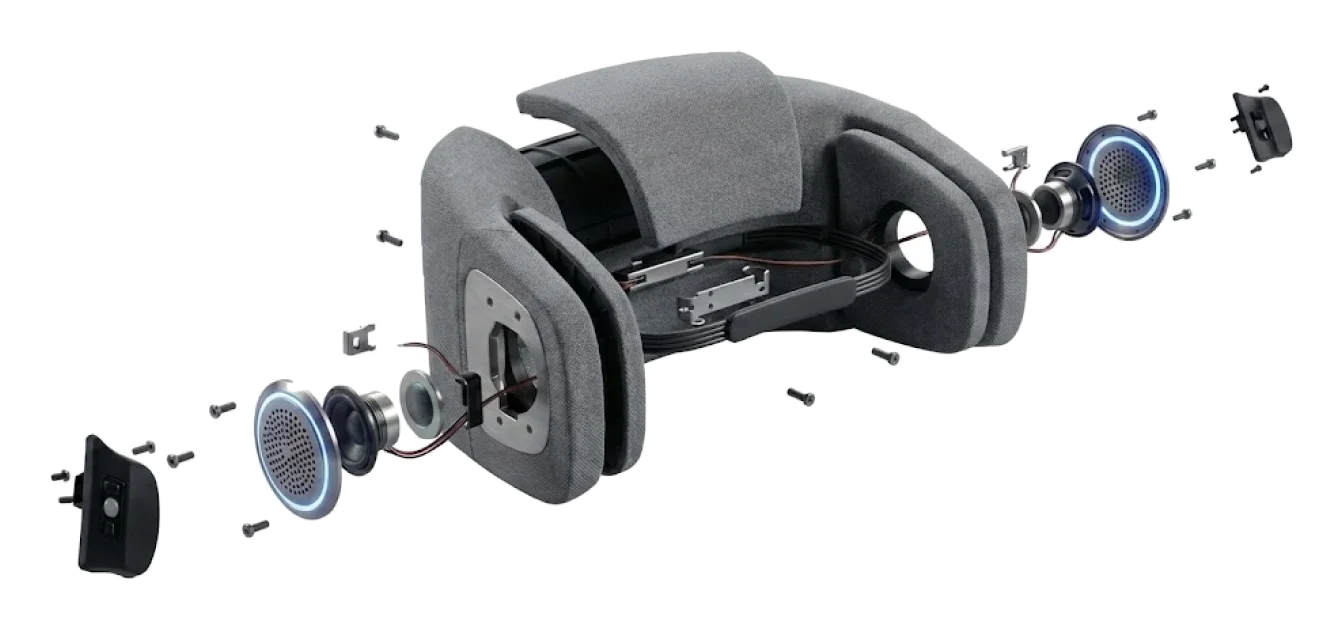
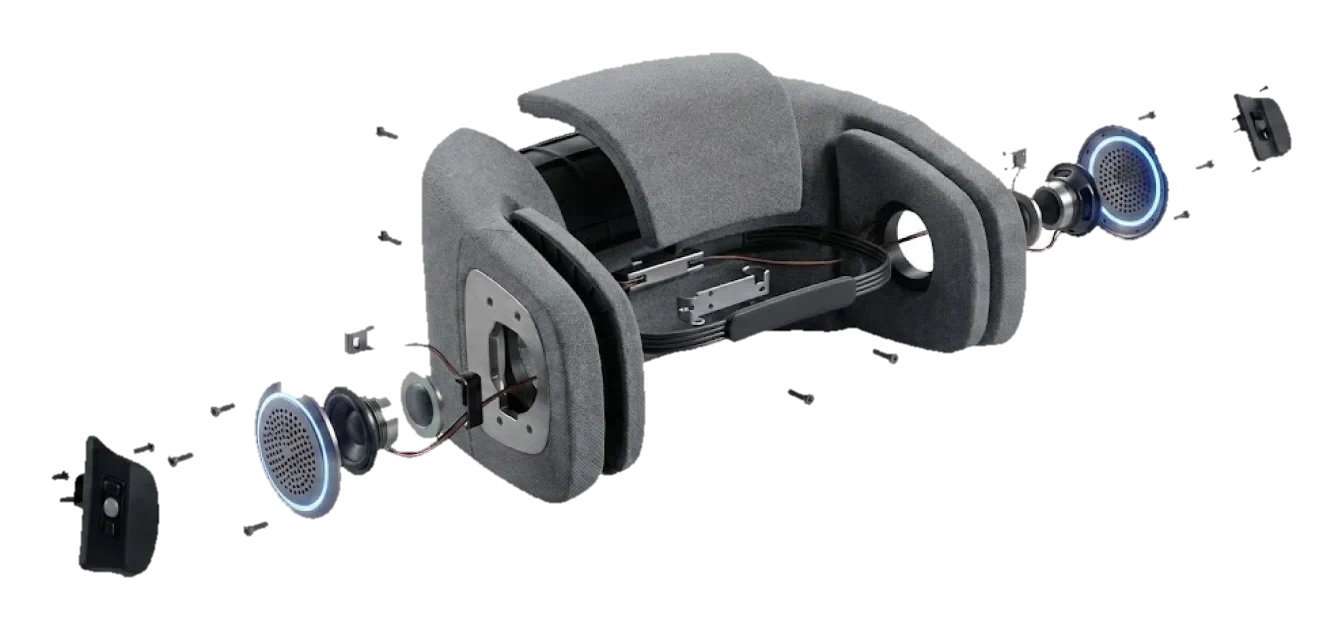
Remove hero status row, enlarge nav, email messages via FormSubmit
Also clean the white fringe off the cockpit render and drop the
'usually replies within a few days' note.

Claude-Session: https://claude.ai/code/session_01J5XQpoQ2NcGri55FsiWyeZ

diff --git a/assets/site.js b/assets/site.js
@@ -710,9 +710,10 @@
   }
 
   /* ---------- message board ----------
-     Inside the claude.ai viewer, messages are stored with the `db` capability:
-     each visitor writes only inbox/<their id>; only the owner can read the inbox.
-     Anywhere else (a downloaded copy, another host) the form points to email. */
+     Messages are emailed to me through FormSubmit (data-mail on the form). If that
+     fails and the page runs inside the claude.ai viewer, the message is stored with
+     the `db` capability instead: each visitor writes only inbox/<their id>, and
+     only the owner can read the inbox. Otherwise the form points to email. */
   var form = $("#msg-form");
   if (form) {
     var status = $(".msg-status", form), btn = $("button[type=submit]", form);
@@ -723,6 +724,19 @@
       [["en", en], ["zh", zh]].forEach(function (x) { var s = document.createElement("span"); s.className = x[0]; s.textContent = x[1]; status.appendChild(s); });
       status.classList.toggle("ok", !!ok);
     };
+    var mailTo = form.getAttribute("data-mail");
+    async function sendMail(data) {
+      if (!mailTo || !window.fetch) return "skip";
+      var ctl = window.AbortController ? new AbortController() : null;
+      var t = ctl ? setTimeout(function () { ctl.abort(); }, 15000) : null;
+      try {
+        var r = await fetch(mailTo, { method: "POST", headers: { "Content-Type": "application/json", Accept: "application/json" }, body: JSON.stringify(data), signal: ctl ? ctl.signal : undefined });
+        var j = await r.json().catch(function () { return {}; });
+        if (r.ok && String(j.success) === "true") return "ok";
+        if (/activat/i.test(String(j.message || ""))) return "activate";
+        return "fail";
+      } catch (err) { return "error"; } finally { if (t) clearTimeout(t); }
+    }
     var store = { db: null, user: null, id: null, ready: false, readOnly: false };
     var fallbackMsg = ["Messages can't be saved in this copy of the site. Please email me instead (address on the right).", "这个版本的网站无法保存留言，请改用右侧的邮箱联系我。"];
 
@@ -767,10 +781,27 @@
 
     form.addEventListener("submit", async function (e) {
       e.preventDefault();
+      var hp = form.elements["_honey"];
+      if (hp && hp.value) return;
       var name = form.name.value.trim(), contact = form.contact.value.trim(), text = form.text.value.trim();
       if (!name || !text) { say("Please add your name and a message.", "请填写名字和留言内容。"); return; }
-      if (!store.ready || !store.id || store.readOnly) { say(fallbackMsg[0], fallbackMsg[1]); return; }
       btn.disabled = true; say("Sending…", "发送中…");
+      var mail = { name: name.slice(0, 80), contact: contact.slice(0, 120) || "-", message: text.slice(0, 2000),
+        _subject: "作品集网站新留言 / New message from " + name.slice(0, 80), _template: "table", _captcha: "false" };
+      if (/^[^\s@]+@[^\s@]+\.[^\s@]+$/.test(contact)) mail._replyto = contact;
+      var sent = await sendMail(mail);
+      if (sent === "ok") {
+        form.text.value = ""; btn.disabled = false;
+        say("Sent to my inbox. Thank you, I'll get back to you soon.", "已发送到我的邮箱，谢谢！我会尽快回复你。", true);
+        return;
+      }
+      if (!store.ready || !store.id || store.readOnly) {
+        btn.disabled = false;
+        if (sent === "activate") say("The message form is still being set up. Please email me directly for now.", "留言功能还在开通中，暂时请直接发邮件给我。");
+        else if (sent === "skip") say(fallbackMsg[0], fallbackMsg[1]);
+        else say("The message didn't send. Please try again, or email me directly.", "留言没有发送成功，请重试或直接发邮件给我。");
+        return;
+      }
       try {
         var ref = store.db.doc("inbox/" + store.id);
         var snap = await ref.get();

diff --git a/index.html b/index.html
@@ -31,15 +31,9 @@
 <section class="hero" id="top">
   <canvas class="field" aria-hidden="true"></canvas>
   <div class="wrap">
-    <div class="hero-top mono muted" data-reveal="fade" data-noscramble>
-      <span><span class="en">Portfolio · 2026</span><span class="zh" lang="zh-CN">作品集 · 2026</span></span>
-      <span><span class="en">Product Manager · RCA</span><span class="zh" lang="zh-CN">产品经理 · 皇家艺术学院</span></span>
-      <span data-noscramble>LDN <time data-clock>--:--:--</time></span>
-      <span class="status"><span class="en">Open to collaboration</span><span class="zh" lang="zh-CN">开放合作</span></span>
-    </div>
     <div class="hero-name">
       <h1 class="display h-xxl hd" data-split data-vf><span class="hl">Eagan</span></h1>
-      <a class="hero-arrow" href="#work" data-label="Work" aria-label="Selected projects / 主要作品"><svg viewBox="0 0 60 240" aria-hidden="true"><path d="M30 0V236M3 208l27 28 27-28" fill="none" stroke="currentColor" stroke-width="1.5" pathLength="1" vector-effect="non-scaling-stroke"/></svg></a>
+      <a class="hero-arrow" href="#work" data-label="Work" aria-label="Selected projects / 主要作品"><span class="ha-in" aria-hidden="true"><i class="ha-shaft"></i><svg viewBox="0 0 60 30"><path d="M30 0V28M3 2l27 28 27-28" fill="none" stroke="currentColor" stroke-width="1.5" vector-effect="non-scaling-stroke"/></svg></span></a>
     </div>
     <div class="hero-foot">
       <div class="hf-intro" data-reveal style="--d:300ms"><span class="mono"><span class="en">Profile</span><span class="zh" lang="zh-CN">简介</span></span>
@@ -176,11 +170,11 @@
 <section class="section contact-sec" id="contact"><div class="wrap">
   <div class="sec-head">
     <h2 class="display h-l hd" data-split><span class="hl"><span class="en">Messages &amp; contact</span><span class="zh" lang="zh-CN">留言与联系</span></span></h2>
-    <p class="mono muted" data-reveal><span class="en">Usually replies within a few days</span><span class="zh" lang="zh-CN">通常几天内回复</span></p>
   </div>
   <div class="contact-cols">
     <div class="msg-col" data-reveal>
-      <form class="msg-form" id="msg-form" novalidate>
+      <form class="msg-form" id="msg-form" data-mail="https://formsubmit.co/ajax/10082479@network.rca.ac.uk" novalidate>
+        <input type="text" name="_honey" class="hp" tabindex="-1" autocomplete="off" aria-hidden="true">
         <div class="field"><label for="msg-name" class="mono"><span class="en">Your name</span><span class="zh" lang="zh-CN">你的名字</span></label><input id="msg-name" name="name" maxlength="80" autocomplete="name" required></div>
         <div class="field"><label for="msg-contact" class="mono"><span class="en">Email or WeChat (optional)</span><span class="zh" lang="zh-CN">邮箱或微信（选填）</span></label><input id="msg-contact" name="contact" maxlength="120"></div>
         <div class="field"><label for="msg-text" class="mono"><span class="en">Message</span><span class="zh" lang="zh-CN">留言内容</span></label><textarea id="msg-text" name="text" rows="5" maxlength="2000" required></textarea></div>

diff --git a/assets/site.css b/assets/site.css
@@ -704,11 +704,14 @@ html[data-lang="zh"] .display { word-break: keep-all; overflow-wrap: anywhere; }
 html[data-lang="zh"] .h-xl { font-size: clamp(38px, 9vw, 140px); }
 
 /* hero: a long, thin poster arrow pointing at the work */
-.hero-arrow { position: absolute; right: 0; bottom: 4%; width: clamp(44px, 5vw, 76px); color: var(--ink); }
-.hero-arrow svg { display: block; width: 100%; height: auto; overflow: visible; clip-path: inset(0 0 100% 0); animation: arrow-in 1.6s var(--ease) .9s forwards; transition: transform .6s var(--ease); }
-.hero-arrow:hover svg { transform: translateY(12px); }
+.hero-arrow { position: absolute; right: 0; top: 6%; bottom: 4%; width: clamp(44px, 5vw, 76px); color: var(--ink); }
+/* the shaft stretches to the name's height, so the arrow never reaches up into the header */
+.hero-arrow .ha-in { display: flex; flex-direction: column; align-items: center; height: 100%; clip-path: inset(0 0 100% 0); animation: arrow-in 1.6s var(--ease) .9s forwards; transition: transform .6s var(--ease); }
+.hero-arrow .ha-shaft { flex: 1; width: 1.5px; background: currentColor; }
+.hero-arrow svg { display: block; width: 100%; height: auto; overflow: visible; }
+.hero-arrow:hover .ha-in { transform: translateY(12px); }
 @keyframes arrow-in { to { clip-path: inset(0 0 -4% 0); } }
-@media (max-width: 640px) { .hero-arrow { width: 40px; bottom: 0; } }
+@media (max-width: 640px) { .hero-arrow { width: 32px; top: 0; bottom: -28px; } }
 
 /* =====================================================================
    Selected projects: four panels. The open panel shows the real object on
@@ -1235,3 +1238,21 @@ html[data-lang="zh"] .vz-q > span { font-weight: 700; }
   .art-grid { display: flex; flex-direction: column; }
   .art-grid .art-item:has(.plate.photo) { order: -1; }
 }
+
+/* ---------- v30 larger header (the hero status row is gone); hidden spam trap ---------- */
+.site-head .wrap { padding-block: 20px; }
+.brand { font-size: 22px; gap: 12px; }
+.brand .cjk { font-size: 17px; }
+.nav a { font-size: 17px; }
+.lang-btn { padding: 7px 14px; font-size: 14px; }
+@media (max-width: 640px) {
+  .site-head .wrap { padding-block: 14px; }
+  .brand { font-size: 20px; }
+}
+@media (max-width: 520px) {
+  .brand { font-size: 19px; }
+  .nav a { font-size: 15px; }
+  .lang-btn { padding: 6px 12px; font-size: 13px; }
+}
+@media (max-width: 360px) { .nav a { font-size: 14px; } .nav { gap: 10px; } }
+.msg-form .hp { position: absolute; left: -9999px; width: 1px; height: 1px; opacity: 0; pointer-events: none; }
